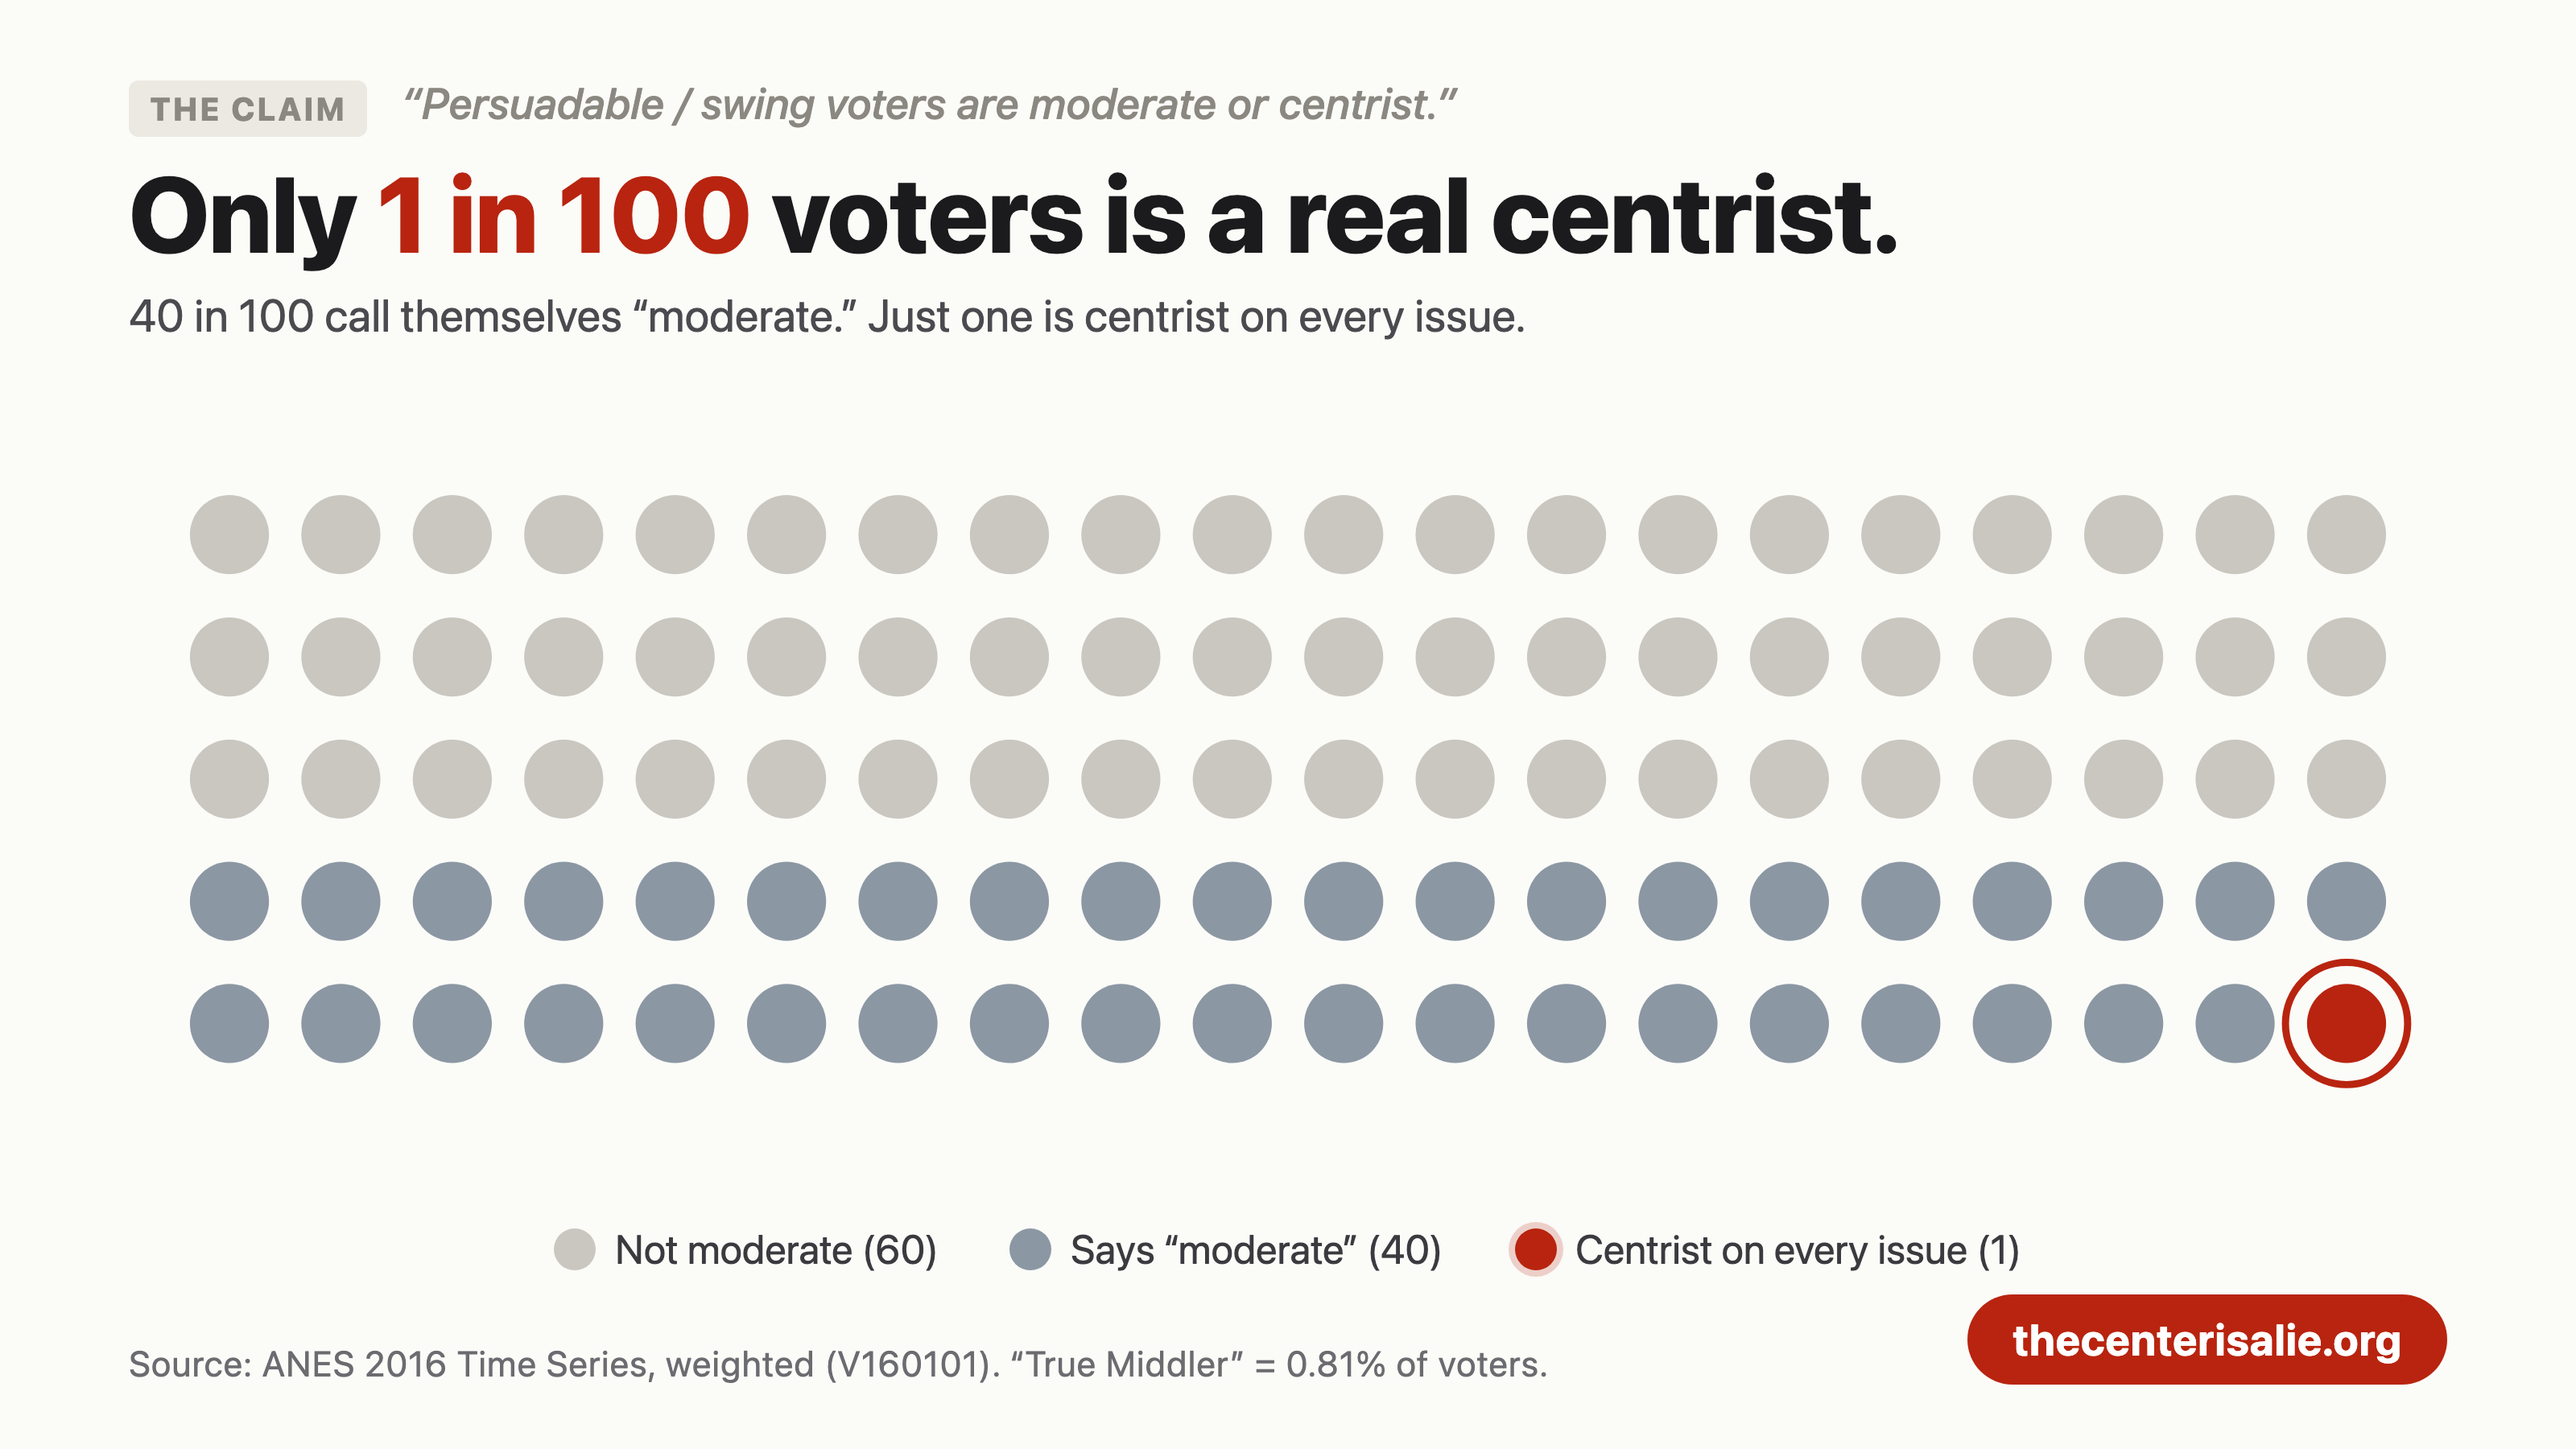
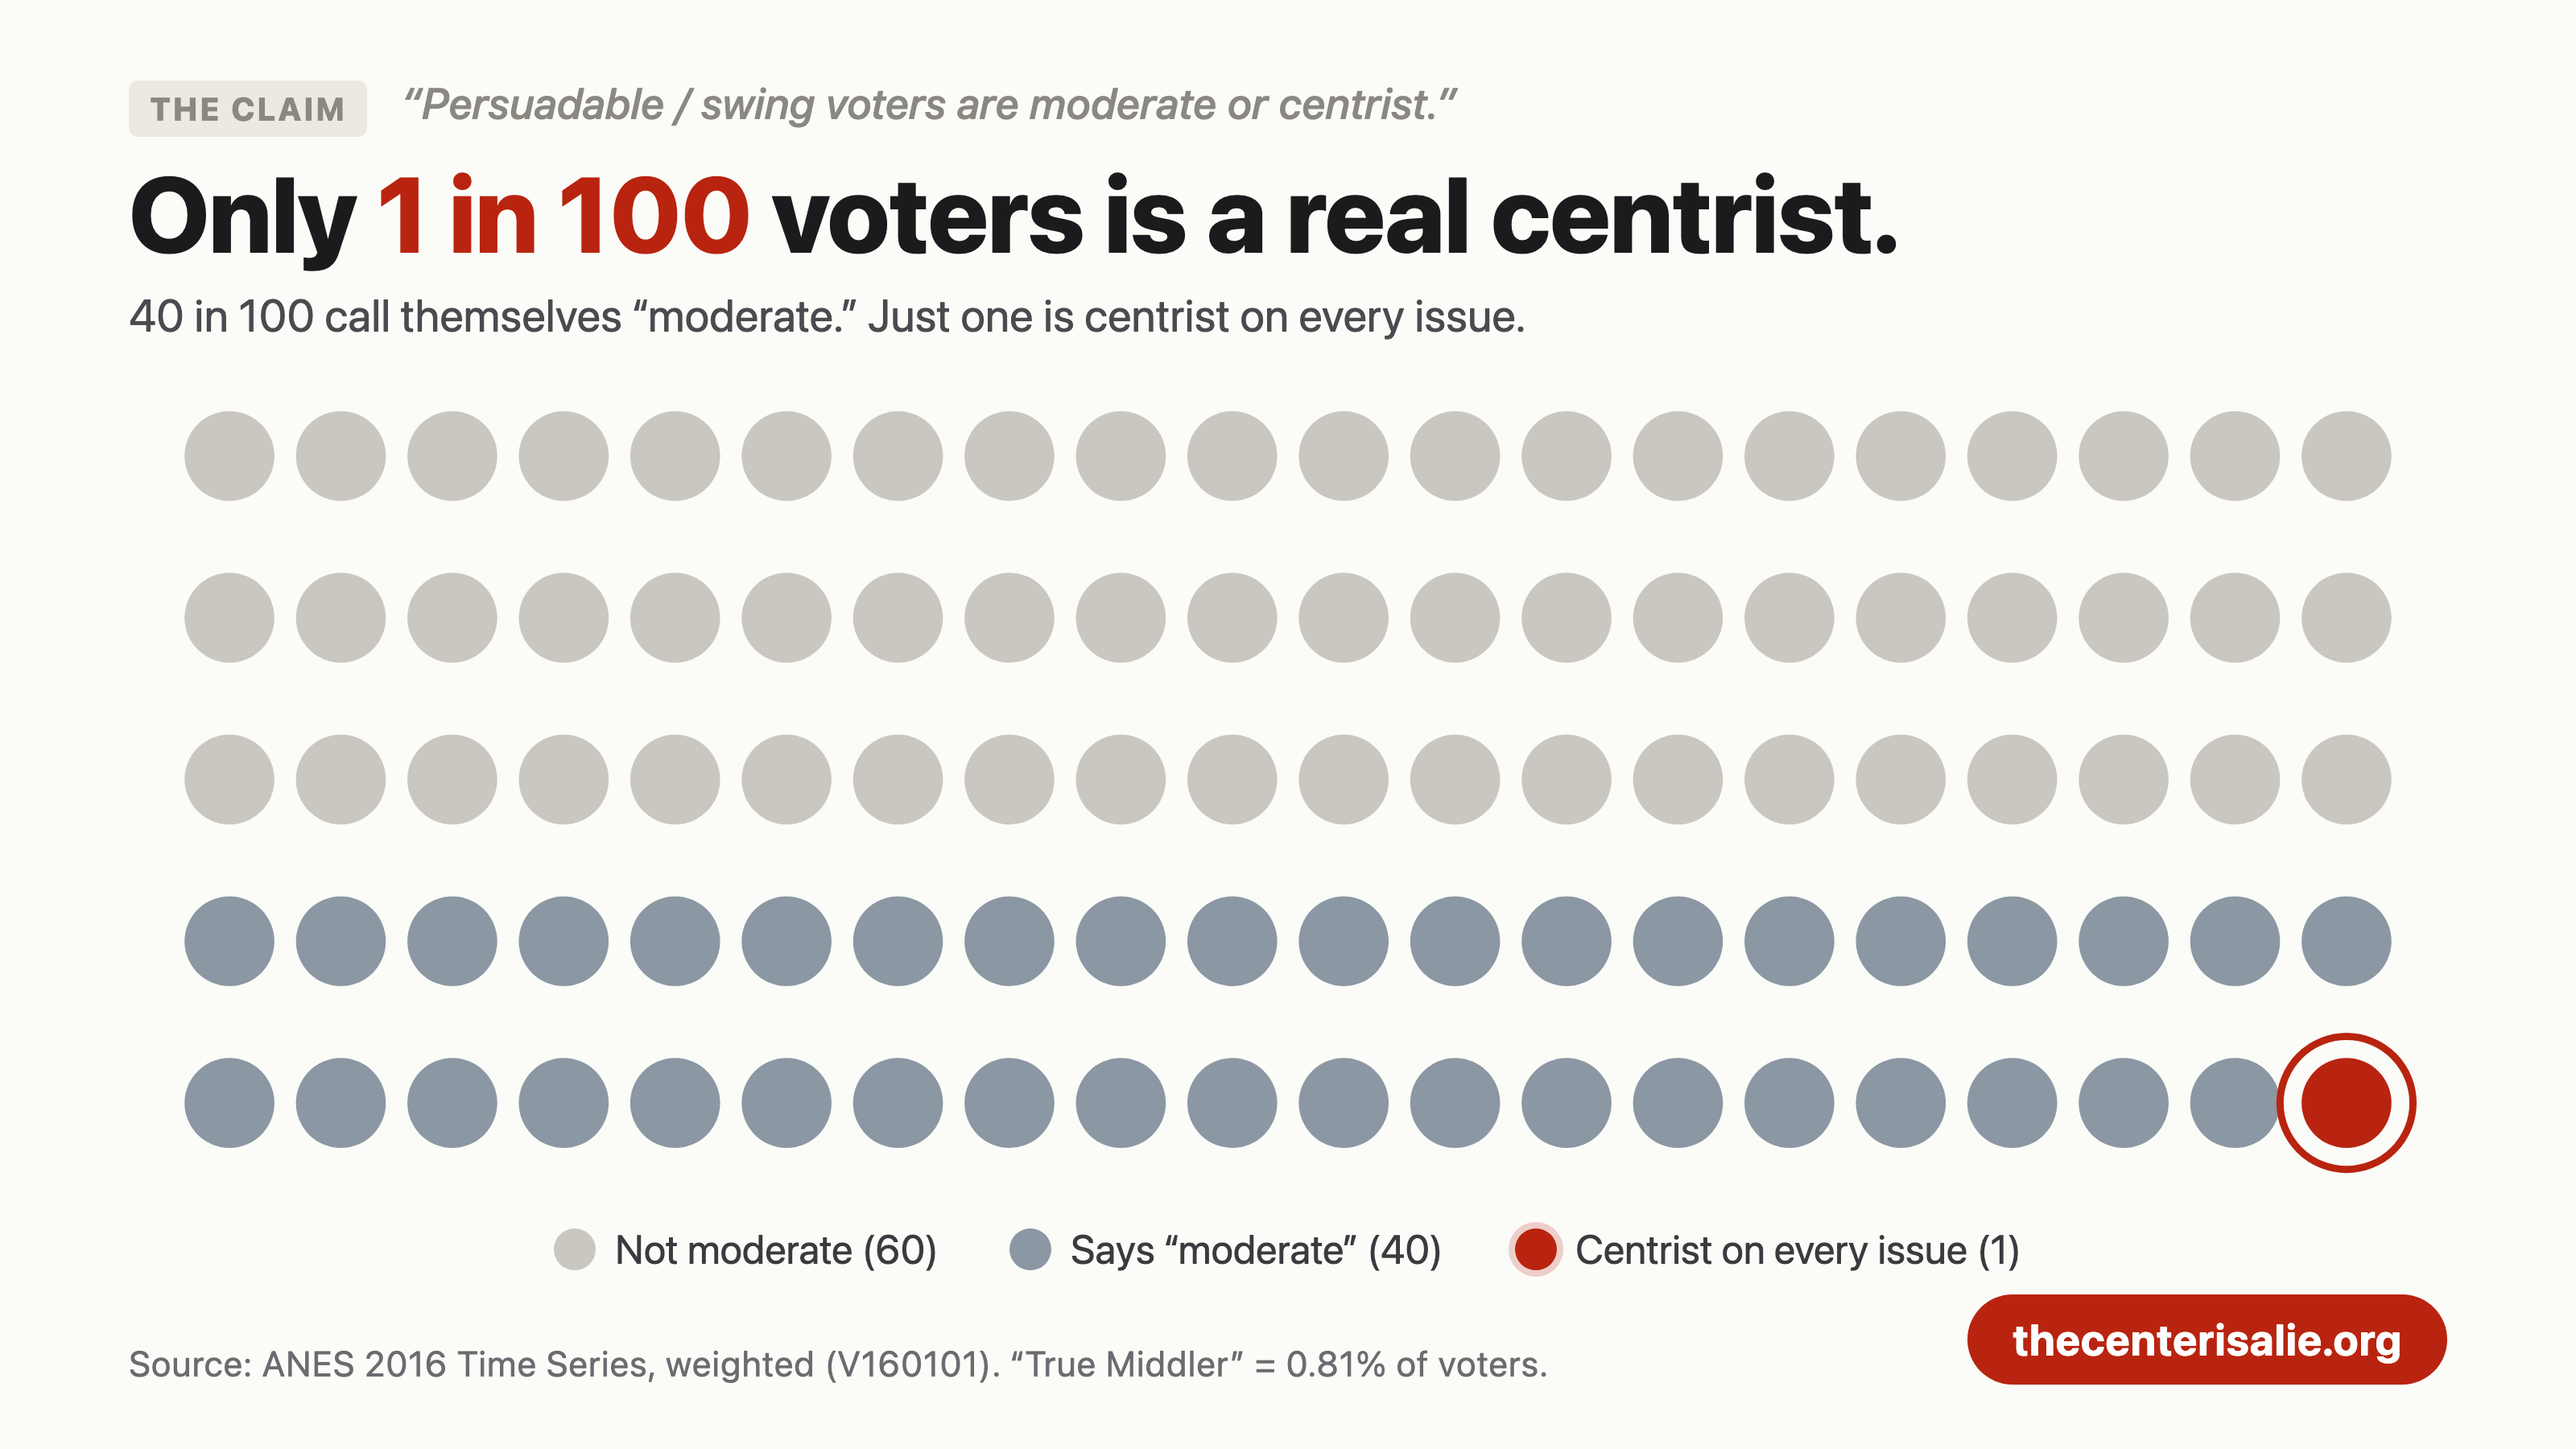
fix(og): enlarge 1in100 waffle to fill frame, unclip corner ring

Changed region(s): [[0.0625, 0.28, 0.9375, 0.56], [0.0625, 0.5911, 0.9375, 0.8089]]

diff --git a/web/og-cards/chart-1in100.html b/web/og-cards/chart-1in100.html
@@ -6,7 +6,7 @@
     <div class="cc-title">Only <span class="hl">1 in 100</span> voters is a real centrist.</div>
     <div class="cc-sub">40 in 100 call themselves &ldquo;moderate.&rdquo; Just one is centrist on every issue.</div>
 
-    <div class="cc-chart"><svg id="waffle" viewBox="0 0 1290 360" role="img"
+    <div class="cc-chart"><svg id="waffle" viewBox="0 0 1290 450" role="img"
       aria-label="Waffle of 100 dots: 60 non-moderate, 39 self-described moderate, 1 true centrist circled"></svg></div>
 
     <div class="cc-legend">
@@ -27,8 +27,8 @@
     //   60–98 self-ID moderate (medium) rows 4–5
     //   99    True Middler (red, ringed) last dot, bottom-right
     const svg = document.getElementById('waffle');
-    const COLS = 20, ROWS = 5, r = 22, sx = 62, sy = 68;
-    const x0 = (1290 - (COLS - 1) * sx) / 2, y0 = (360 - (ROWS - 1) * sy) / 2;
+    const COLS = 20, ROWS = 5, r = 25, sx = 62, sy = 90;
+    const x0 = (1290 - (COLS - 1) * sx) / 2, y0 = (450 - (ROWS - 1) * sy) / 2;
     const NS = 'http://www.w3.org/2000/svg';
     for (let i = 0; i < 100; i++) {
       const col = i % COLS, row = (i / COLS) | 0;
